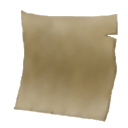
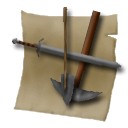
Tools stuff.
More startup time.

Changed region(s): [[0.0938, 0.0312, 1.0, 0.875]]

diff --git a/GameTools.ocd/AngryTools.ocd/Script.c b/GameTools.ocd/AngryTools.ocd/Script.c
@@ -76,13 +76,12 @@ func ReturnHeight() //Be advised: height should always be an even number, becaus
 
 func Collide()
 {
-	var speed = GetYDir(1000);
 	this.isTarget = 0;
 	this.rotationArray = [1,0,0];
 	SetCategory(C4D_Vehicle);
 	SetAction("None");
-	SetYDir(-speed*2, 1000);
-	SetXDir(500*(Random(2)*2-1),1000);
+	SetYDir(-26);
+	SetXDir(5*(Random(2)*2-1));
 	while(RemoveVertex());
 	return true;
 }
@@ -92,7 +91,6 @@ public func OnProjectileHit(object shot)
 	if (shot && shot->GetID()==Arrow)
 	{
 		var xdir = shot->GetXDir()/3, ydir = shot->GetYDir();
-		var this_speed = GetYDir();
 		shot->CreateParticle("WoodChip", 0,0, PV_Random(xdir-5,xdir+5), PV_Random(ydir-5,ydir+5), PV_Random(10,50), Particles_Spark(), 5);
 		Sound("BalloonPop", false, 1);
 		shot->RemoveObject();
@@ -100,7 +98,7 @@ public func OnProjectileHit(object shot)
 		this.rotationArray = [1,0,0];
 		SetCategory(C4D_Vehicle);
 		SetAction("GotHit");
-		SetYDir(-this_speed*2);
+		SetYDir(-26);
 		SetXDir(xdir);
 	}
 	return true;

diff --git a/ClonkFestObjs.ocd/GameBase.ocd/Script.c b/ClonkFestObjs.ocd/GameBase.ocd/Script.c
@@ -52,7 +52,7 @@ func GetGameClonkMaxEnergy() { return 10; }
 func GetGameClonkMaxContents() { return 2; }
 
 // Seconds to wait btween InitGame and StartGame
-func GetGameStartupTime() { return 3; }
+func GetGameStartupTime() { return 6; }
 
 // Set this to number of seconds if the game should end automatically after a set time
 func GetGameTimeLimit() { return nil; }
